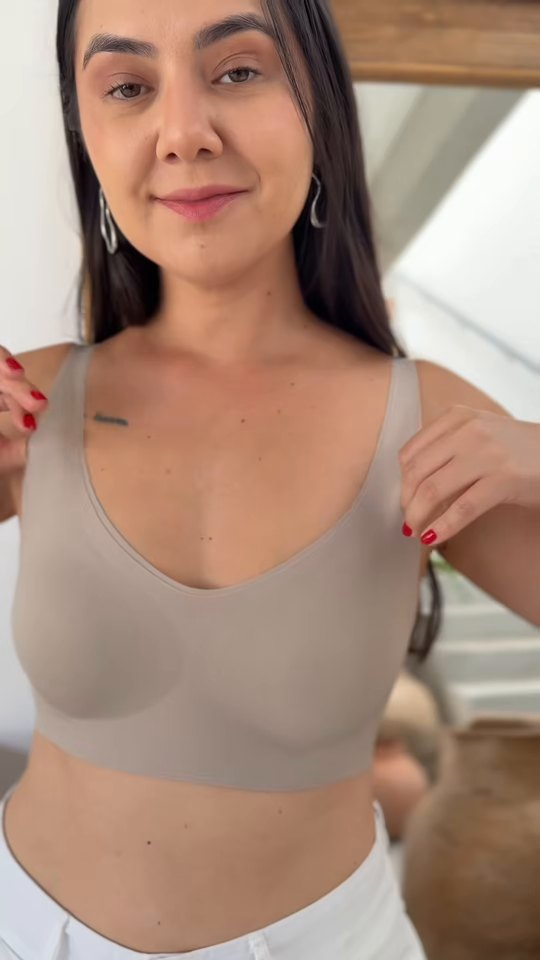
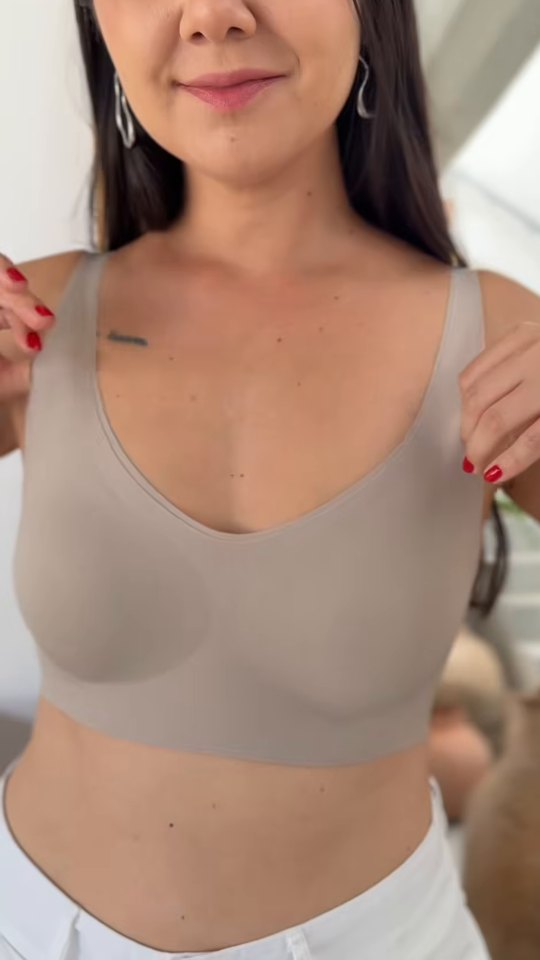
Capa com a foto maior, balões de feedback nos vídeos, Moda com 12 vídeos e setas de 5 em 5
- Foto da capa maior, terminando na borda direita, com continuação suave à esquerda

- Criadora de conteúdo sem UGC em cima do nome e +80 marcas em destaque, em bordô

- Balões com o feedback de cada marca em cima dos vídeos dela

- Feedbacks novos do Empório Macadâmia e da Pra Casa

- Moda com Primavera Aesthetic e Vestido Aesthetic, na ordem nova

- Setas dos nichos passam 5 vídeos de uma vez

- TikTok Shop no nicho de moda e sem os tópicos; serviço 2 só no Instagram

- Sai o bloco de resultados; fica +80 marcas atendidas antes das logos

- Capa nova do sutiã da Liz, mais próxima

diff --git a/index.html b/index.html
@@ -1613,7 +1613,7 @@
     }
     .capa-palco > .container { flex: none; }
     .capa-fundo { position: absolute; inset: 0; z-index: -2; }
-    .capa-fundo img { width: 100%; height: 100%; object-fit: cover; object-position: 78% 30%; }
+    .capa-fundo img { width: 100%; height: 100%; object-fit: cover; object-position: 100% 30%; }
     /* Bordô só do lado do texto; a foto continua viva à direita */
     .capa-palco::before {
       content: "";
@@ -1622,7 +1622,7 @@
       z-index: -1;
       background:
         linear-gradient(180deg, rgba(40, 10, 17, .55) 0%, rgba(40, 10, 17, 0) 24%),
-        linear-gradient(90deg, rgba(58, 14, 24, .94) 0%, rgba(70, 18, 30, .86) 30%, rgba(90, 24, 38, .5) 48%, rgba(90, 24, 38, 0) 62%);
+        linear-gradient(90deg, rgba(58, 14, 24, .94) 0%, rgba(70, 18, 30, .86) 28%, rgba(90, 24, 38, .45) 43%, rgba(90, 24, 38, 0) 54%);
     }
     .capa-palco .capa-grid { grid-template-columns: minmax(0, 1fr); }
     .capa-palco .capa-texto { max-width: 640px; }
@@ -1688,6 +1688,60 @@
     /* TikTok Shop: lista clara e carrossel de vídeos */
     .tiktok .tiktok-itens li { color: var(--tinta-suave); }
     .tiktok .btn-tiktok { justify-self: start; }
+    /* Rótulo das logos e título "+80 marcas atendidas" em destaque, bordô */
+    .faixa-rotulo {
+      font-family: "Fraunces", Georgia, serif;
+      font-size: clamp(1.35rem, 2.6vw, 1.9rem);
+      font-weight: 400;
+      letter-spacing: -.01em;
+      text-transform: none;
+      color: var(--azul);
+    }
+    .titulo-marcas { text-align: center; color: var(--azul); margin-bottom: 2rem; }
+    .titulo-marcas em { font-style: italic; }
+
+    /* Balões de feedback em cima do vídeo, como mensagens de WhatsApp */
+    .baloes {
+      position: absolute;
+      left: .55rem;
+      bottom: .6rem;
+      right: 3.4rem;
+      z-index: 2;
+      display: flex;
+      flex-direction: column;
+      align-items: flex-start;
+      gap: .3rem;
+      pointer-events: none;
+    }
+    .balao {
+      margin: 0;
+      max-width: 100%;
+      padding: .42rem .62rem;
+      border-radius: 11px 11px 11px 3px;
+      background: rgba(255, 253, 250, .96);
+      color: #1d1315;
+      font-size: .72rem;
+      font-weight: 500;
+      line-height: 1.3;
+      text-align: left;
+      box-shadow: 0 4px 14px -6px rgba(20, 17, 13, .45);
+    }
+    .balao:first-child::before {
+      content: "Feedback";
+      display: block;
+      margin-bottom: .12rem;
+      font-size: .58rem;
+      font-weight: 800;
+      letter-spacing: .1em;
+      text-transform: uppercase;
+      color: var(--azul);
+    }
+    .slide .baloes { bottom: .9rem; right: .9rem; }
+    .slide .balao { font-size: .78rem; }
+    @media (max-width: 700px) {
+      .balao { font-size: .66rem; padding: .35rem .5rem; }
+      .baloes { right: 2.9rem; }
+    }
   </style>
 </head>
 
@@ -1712,7 +1766,7 @@
         <li><a href="#destaques" data-i18n="menuDestaques">Destaques</a></li>
         <li><a href="#trabalhos" data-i18n="menuTrabalhos">Trabalhos</a></li>
         <li><a href="#servicos" data-i18n="menuServicos">Serviços</a></li>
-        <li><a href="#numeros" data-i18n="menuNumeros">Números</a></li>
+        <li><a href="#numeros" data-i18n="menuNumeros">Marcas</a></li>
         <li><a href="#contato" class="menu-cta" data-i18n="menuContato">Contato</a></li>
       </ul>
       <div class="nav-acoes">
@@ -1824,7 +1878,6 @@
             <p class="sobretitulo reveal" data-cfg="tiktokShop.sobretitulo"></p>
             <h2 class="titulo reveal" id="tiktok-titulo" data-cfg="tiktokShop.titulo"></h2>
             <p class="lead reveal" data-cfg="tiktokShop.descricao"></p>
-            <ul class="tiktok-itens reveal" id="tiktok-itens"></ul>
             <a class="btn btn-primario btn-tiktok reveal" id="tiktok-link" target="_blank" rel="noopener noreferrer"></a>
           </div>
           <div class="carrossel reveal" id="tiktok-carrossel" role="region" aria-roledescription="carrossel" aria-labelledby="tiktok-titulo">
@@ -1849,15 +1902,10 @@
     </section>
 
     <!-- ============ 6. NÚMEROS E DEPOIMENTOS ============ -->
-    <section class="numeros" id="numeros" aria-labelledby="numeros-titulo">
+    <section class="numeros" id="numeros" aria-labelledby="logos-titulo">
       <div class="container">
-        <div class="secao-topo">
-          <p class="sobretitulo reveal" data-cfg="numeros.sobretitulo"></p>
-          <h2 class="titulo reveal" id="numeros-titulo" data-cfg="numeros.titulo"></h2>
-          <p class="lead reveal" data-cfg="numeros.descricao"></p>
-        </div>
-        <ul class="contadores" id="contadores"></ul>
-        <h3 class="subtitulo reveal" id="logos-titulo" data-cfg="marcas.tituloLogos"></h3>
+        <ul class="contadores" id="contadores" hidden></ul>
+        <h2 class="titulo titulo-marcas reveal" id="logos-titulo" data-cfg="marcas.tituloLogos"></h2>
       </div>
 
       <div class="container logos reveal" role="region" aria-labelledby="logos-titulo">
@@ -1984,11 +2032,11 @@
 
       // EDITE AQUI: textos da capa (primeira tela do site).
       capa: {
-        sobretitulo: "Criadora de conteúdo UGC",
+        sobretitulo: "Criadora de conteúdo",
         frase: "Crio vídeos autênticos, com cara de gente de verdade, que fazem a sua marca parar o scroll, gerar confiança e vender mais.",
         selo: "Agenda aberta para novas parcerias",
         // A foto ocupa a capa inteira: "larga" no computador, "vertical" no celular.
-        imagem: { larga: "fotos/capa-larga.jpg", vertical: "fotos/capa-vertical.jpg", alt: `${NOME} sorrindo e abaixando os óculos de sol, de blusa branca de gola alta` },
+        imagem: { larga: "fotos/capa-larga-2.jpg", vertical: "fotos/capa-vertical.jpg", alt: `${NOME} sorrindo e abaixando os óculos de sol, de blusa branca de gola alta` },
         // As três etiquetas abaixo dos botões.
         papeis: ["Influenciadora", "UGC Creator", "TikTok Shop Creator"],
         rotuloMarcas: "+80 marcas que confiam"
@@ -1997,7 +2045,7 @@
       // EDITE AQUI: marcas.
       marcas: {
         // A faixa fina da capa mostra as logos da lista abaixo.
-        tituloLogos: "Marcas que já confiaram no <em>meu trabalho</em>",
+        tituloLogos: "<em>+80</em> marcas atendidas",
         // Logos (ficam na pasta "logos"). Para incluir uma nova, salve a
         // imagem quadrada na pasta e adicione uma linha { nome, logo }.
         logos: [
@@ -2164,6 +2212,24 @@
       // EDITE AQUI: vídeos por nicho. Cada nicho vira um botão de filtro.
       // Para incluir um vídeo, copie uma linha e troque marca, título e link.
       trabalhos: {
+        // Balões de feedback em cima do vídeo (código do vídeo no YouTube: mensagens).
+        baloes: {
+          "RT8yY885xuE": ["Atendeu todas as minhas necessidades e o vídeo ficou perfeito!"],
+          "JU_N27VI-xw": ["Capricho espetacular, cenário lindo, zero defeitos. Ficamos encantadas! 💖"],
+          "38SG8qvT37s": ["Conteúdo maravilhoso e impecável!"],
+          "Y98Zz5V-GP4": ["Tamires, isso está perfeitoooo! Arrasou muito, impecável", "Ficaram perfeitos"],
+          "wZUczVHydiU": ["A Tamires foi maravilhosa!!"],
+          "AA9ZTdH-ccs": ["Caraca, Tamires", "Tô emocionadaaaa", "Elevou nossos vídeos a outro nível"],
+          "Svi-VP0Fsps": ["Conteúdo super legal e, além de tudo, super atenciosa."],
+          "1BFxYgk0Zww": ["Conteúdo dinâmico e com ótima qualidade, nota 10!"],
+          "KWjGJhEC7pw": ["Tamires foi ótima, amamos o conteúdo! Nota 10"],
+          "EiOsKUBIfUg": ["Tamires, acabei de ver, ficou beeeeeem legal, sério mesmo", "Parabéns"],
+          "OrXiRGWX5Nw": ["Super dedicada e entregou o trabalho super rápido!"],
+          "hfaKMRJzIXU": ["Cumpriu todos os prazos e entregou com qualidade. Recomendo muito!"],
+          "lzwVtZcSWjg": ["Muito obrigado pela parceria e pelo ótimo conteúdo! 💚"],
+          "vDy_HsxSQ2Y": ["Entregou no prazo e trouxe naturalidade ao conteúdo."],
+          "NKkCdkueXRw": ["Tamires sempre entrega um ótimo conteúdo!"]
+        },
         sobretitulo: "Trabalhos por nicho",
         titulo: "Um olhar para cada <em>nicho</em>",
         // {total} e {nichos} são preenchidos automaticamente.
@@ -2172,13 +2238,15 @@
         nichos: [
           { nome: "Moda", videos: [
             { marca: "Carol Areco", titulo: "Óculos aesthetic", link: "https://youtube.com/shorts/U01Dk17gAHk" },
-            { marca: "Liz", titulo: "Explicativo Microfibra", link: "https://youtube.com/shorts/5sh6Czculo8" },
             { marca: "Sabrina Fernandes", titulo: "Gêmeas Inspiração", link: "https://youtube.com/shorts/vvXbP8f903s" },
             { marca: "Liz", titulo: "Demonstrativo bermuda e calça", link: "https://youtube.com/shorts/g6Roj4frQIU" },
+            { marca: "Viasete", titulo: "Primavera Aesthetic", link: "https://youtube.com/shorts/00457RqIeEM" },
             { marca: "Sabrina Fernandes", titulo: "Um vestido para cada dia da semana", link: "https://youtube.com/shorts/EQ4VD7r9kNw" },
+            { marca: "Liz", titulo: "Explicativo Microfibra", link: "https://youtube.com/shorts/5sh6Czculo8" },
             { marca: "Viasete", titulo: "GRWM aesthetic", link: "https://youtube.com/shorts/BZH4J_bgKfA" },
             { marca: "Sabrina Fernandes", titulo: "O que comprei x o que recebi", link: "https://youtube.com/shorts/lCzgezoJ6fM" },
             { marca: "Liz", titulo: "Emocional fim de ano", link: "https://youtube.com/shorts/pDF1DGc7U9k" },
+            { marca: "Viasete", titulo: "Vestido Aesthetic", link: "https://youtube.com/shorts/Vxx8-USdAvk" },
             { marca: "Moldavita", titulo: "Gêmeas Inspiração", link: "https://youtube.com/shorts/JU_N27VI-xw" },
             { marca: "Liz", titulo: "Explicativo Microfibra", link: "https://youtube.com/shorts/tGV0sPCNVrg" }
           ]},
@@ -2309,7 +2377,7 @@
       tiktokShop: {
         sobretitulo: "TikTok Shop",
         titulo: "Vídeos que levam direto ao <em>carrinho</em>",
-        descricao: "Também sou criadora do TikTok Shop: faço vídeos de produto com link de compra no próprio vídeo, unindo a naturalidade do UGC à praticidade de comprar sem sair do app.",
+        descricao: "Também sou criadora do TikTok Shop no nicho de moda: faço vídeos de produto com link de compra no próprio vídeo, unindo a naturalidade do UGC à praticidade de comprar sem sair do app.",
         itens: [
           "Vídeos com o produto em uso e link de compra direto no vídeo",
           "Gancho nos primeiros segundos, demonstração e chamada para a compra",
@@ -2333,7 +2401,7 @@
         descricao: "Do roteiro ao arquivo final, cuido de cada etapa para você receber conteúdo pronto para usar e escalar.",
         itens: [
           { titulo: "Vídeo UGC",            descricao: "Vídeos verticais com roteiro, gancho forte e linguagem natural, entregues para a marca publicar no próprio perfil ou usar em anúncios.", detalhe: "Para o perfil da marca" },
-          { titulo: "Publicação no meu perfil", descricao: "Conteúdo publicado no meu perfil, alcançando uma audiência que confia nas minhas indicações.", detalhe: "Instagram e TikTok" },
+          { titulo: "Publicação no meu perfil", descricao: "Conteúdo publicado no meu perfil, alcançando uma audiência que confia nas minhas indicações.", detalhe: "Instagram" },
           { titulo: "Corte para anúncio",   descricao: "Variações do mesmo vídeo com ganchos e chamadas diferentes, para você testar e escalar o que mais vende.", detalhe: "Ideal para tráfego pago" },
           { titulo: "Pacote mensal",        descricao: "Uma rotina de conteúdo para sua marca nunca ficar sem criativo novo, com prioridade na agenda.", detalhe: "Perfeito para quem anuncia todo mês" }
         ]
@@ -2365,7 +2433,9 @@
           { texto: "Tamires sempre entrega um ótimo conteúdo! Adoramos trabalhar com ela e dessa vez não foi diferente. Parabéns pelos conteúdos, Ta!", nome: "Chá Branco", empresa: "Coala", logo: "logos/coala.png" },
           { texto: "Amei trabalhar com você! O conteúdo ficou muito natural, do jeitinho que a gente acredita em UGC. Sua agilidade foi surreal (nota 100) e você foi extremamente prestativa o tempo todo. Com certeza quero repetir essa parceria.", nome: "Campanha UGC", empresa: "Espaço Laser", logo: "logos/espaco-laser.png" },
           { texto: "Trabalhar com a Tamires foi ótimo. Ela entregou no prazo, seguiu o briefing com atenção e trouxe naturalidade ao conteúdo. Uma parceria eficiente e muito bem conduzida.", nome: "Rap10 Oficial | UGC Creator", empresa: "Rap10", logo: "logos/rap10.png" },
+          { texto: "Caraca, Tamires! Tô emocionadaaaa. Elevou nossos vídeos a outro nível, hahahaha", nome: "Mensagem no WhatsApp", empresa: "Empório Macadâmia", logo: "logos/emporio-macadamia.png" },
           { texto: "Sem palavras pro conteúdo que a Tamires entregou, pontualíssima, de um capricho espetacular, cenário lindo, zero defeitos. Ficamos encantadas! 💖", nome: "Macaquinho Jolly", empresa: "Moldavita Boutique", logo: "logos/moldavita.png" },
+          { texto: "Tamires, acabei de ver, ficou beeeeeem legal, sério mesmo. Parabéns!", nome: "Antes e depois: resina para madeira", empresa: "Pra Casa", logo: "logos/pra-casa.png" },
           { texto: "Mais uma vez, fica aqui o nosso agradecimento, muito obrigado pela parceria e pelo ótimo conteúdo! 💚", nome: "Campanha Delivery", empresa: "Poli-Pet", logo: "logos/polipet.png" },
           { texto: "Roteiro e gravação que acertaram em cheio no que estávamos precisando. Um vídeo bem estruturado, pensado nos detalhes. Nós amamos!", nome: "Campanha de awareness", empresa: "Pelmex+", logo: "logos/pelmex.png" },
           { texto: "Criadora incrível, muito criativa e com senso de estética impecável, fotos e vídeos acima das expectativas!", nome: "Campanha de lançamento UGC", empresa: "Bem Me Fiz", logo: "logos/bem-me-fiz.png" },
@@ -2428,14 +2498,14 @@
         mensagemWhatsApp: "Hi Tamires! I'd like to book a slot for Black Friday content."
       },
       capa: {
-        sobretitulo: "UGC Content Creator",
+        sobretitulo: "Content Creator",
         frase: "I create authentic videos that feel like real people talking, the kind that make your brand stop the scroll, build trust and sell more.",
         selo: "Booking new partnerships",
         imagem: { alt: "Tamires Nishimura smiling and lowering her sunglasses, wearing a white turtleneck" },
         papeis: ["Influencer", "UGC Creator", "TikTok Shop Creator"],
         rotuloMarcas: "Trusted by +80 brands"
       },
-      marcas: { tituloLogos: "Brands that have <em>trusted my work</em>" },
+      marcas: { tituloLogos: "<em>+80</em> brands served" },
       sobre: {
         sobretitulo: "About me",
         titulo: "Nice to meet you, I'm <em>Tamires</em>",
@@ -2470,11 +2540,28 @@
         ]
       },
       trabalhos: {
+        baloes: {
+          "RT8yY885xuE": ["She met all my needs and the video turned out perfect!"],
+          "JU_N27VI-xw": ["Spectacular care, a beautiful set, zero flaws. We were delighted! 💖"],
+          "38SG8qvT37s": ["Wonderful, flawless content!"],
+          "Y98Zz5V-GP4": ["Tamires, this is perfeeeect! You nailed it, flawless", "They turned out perfect"],
+          "wZUczVHydiU": ["Tamires was wonderful!!"],
+          "AA9ZTdH-ccs": ["Wow, Tamires", "I'm so emotional", "You took our videos to another level"],
+          "Svi-VP0Fsps": ["Really cool content, and on top of that, super attentive."],
+          "1BFxYgk0Zww": ["Dynamic, high-quality content, a perfect 10!"],
+          "KWjGJhEC7pw": ["Tamires was great, we loved the content! A perfect 10"],
+          "EiOsKUBIfUg": ["Tamires, I just watched it, it turned out sooo good, seriously", "Congrats"],
+          "OrXiRGWX5Nw": ["Super dedicated and delivered the work super fast!"],
+          "hfaKMRJzIXU": ["She met every deadline and delivered quality work. Highly recommend!"],
+          "lzwVtZcSWjg": ["Thank you so much for the partnership and the great content! 💚"],
+          "vDy_HsxSQ2Y": ["Delivered on time and brought a natural feel to the content."],
+          "NKkCdkueXRw": ["Tamires always delivers great content!"]
+        },
         sobretitulo: "Work by niche",
         titulo: "A fresh angle for every <em>niche</em>",
         descricao: "Browse them all below or tap a niche to filter.",
         nichos: [
-          { nome: "Fashion", videos: [{ titulo: "Aesthetic sunglasses" }, { titulo: "Microfiber explainer" }, { titulo: "Twin inspiration" }, { titulo: "Shorts and pants demo" }, { titulo: "A dress for every day of the week" }, { titulo: "Aesthetic GRWM" }, { titulo: "What I ordered vs. what I got" }, { titulo: "Emotional year-end" }, { titulo: "Twin inspiration" }, { titulo: "Microfiber explainer" }] },
+          { nome: "Fashion", videos: [{ titulo: "Aesthetic sunglasses" }, { titulo: "Twin inspiration" }, { titulo: "Shorts and pants demo" }, { titulo: "Aesthetic spring" }, { titulo: "A dress for every day of the week" }, { titulo: "Microfiber explainer" }, { titulo: "Aesthetic GRWM" }, { titulo: "What I ordered vs. what I got" }, { titulo: "Emotional year-end" }, { titulo: "Aesthetic dress" }, { titulo: "Twin inspiration" }, { titulo: "Microfiber explainer" }] },
           { nome: "Try-ons", videos: [{ titulo: "Try-on opening" }, { titulo: "Lança Perfume jumpsuit" }, { titulo: "Party dress" }, { titulo: "Tamires sunglasses" }, { titulo: "Colcci corset and polka dot skirt" }, { titulo: "Heloíse skirt for ads" }, { titulo: "Farm dress" }, { titulo: "Lez a Lez jumpsuit" }, { titulo: "Party dress" }, { titulo: "Colcci look" }] },
           { nome: "Beauty", videos: [{ titulo: "Duos" }, { titulo: "Product launch" }, { titulo: "Lavieen laser experience" }, { titulo: "5 reasons" }, { titulo: "Review" }, { titulo: "Brand presentation" }, { titulo: "Lipo Redux experience" }] },
           { nome: "Health", videos: [{ titulo: "Weight loss" }, { titulo: "Loyalty program" }, { titulo: "Review" }, { marca: "Gift", titulo: "Chocolate gift" }, { titulo: "Lipedema" }, { titulo: "Protein drink" }, { titulo: "Review" }] },
@@ -2499,7 +2586,7 @@
       tiktokShop: {
         sobretitulo: "TikTok Shop",
         titulo: "Videos that lead straight to the <em>cart</em>",
-        descricao: "I'm also a TikTok Shop creator: I make product videos with a buy link right in the video, combining the natural feel of UGC with the ease of buying without leaving the app.",
+        descricao: "I'm also a TikTok Shop creator in the fashion niche: I make product videos with a buy link right in the video, combining the natural feel of UGC with the ease of buying without leaving the app.",
         itens: [
           "Product-in-use videos with a buy link right in the video",
           "A hook in the first seconds, a demo and a call to buy",
@@ -2514,7 +2601,7 @@
         descricao: "From script to final file, I handle every step so you get content that's ready to use and scale.",
         itens: [
           { titulo: "UGC video", descricao: "Vertical videos with a script, a strong hook and natural language, delivered for the brand to post on its own profile or use in ads.", detalhe: "For the brand's profile" },
-          { titulo: "Posting on my profile", descricao: "Content posted on my profile, reaching an audience that trusts my recommendations.", detalhe: "Instagram and TikTok" },
+          { titulo: "Posting on my profile", descricao: "Content posted on my profile, reaching an audience that trusts my recommendations.", detalhe: "Instagram" },
           { titulo: "Ad cuts", descricao: "Variations of the same video with different hooks and calls to action, so you can test and scale what sells best.", detalhe: "Ideal for paid traffic" },
           { titulo: "Monthly package", descricao: "A content routine so your brand never runs out of fresh creatives, with priority booking.", detalhe: "For brands that advertise every month" }
         ]
@@ -2535,7 +2622,9 @@
           { texto: "Tamires always delivers great content! We love working with her, and this time was no different. Congrats on the content, Ta!", nome: "White Tea" },
           { texto: "I loved working with you! The content felt so natural, exactly the way we believe UGC should be. Your speed was unreal (a perfect score) and you were extremely helpful the whole time. I definitely want to repeat this partnership.", nome: "UGC campaign" },
           { texto: "Working with Tamires was great. She delivered on time, followed the brief carefully and brought a natural feel to the content. An efficient, very well-run partnership." },
+          { texto: "Wow, Tamires! I'm so emotional. You took our videos to another level, hahaha", nome: "WhatsApp message" },
           { texto: "No words for the content Tamires delivered: super punctual, beautifully polished, a lovely setting, zero flaws. We were enchanted! 💖", nome: "Jolly romper" },
+          { texto: "Tamires, I just watched it, it turned out sooo good, seriously. Congrats!", nome: "Before and after: wood resin" },
           { texto: "Once again, our thanks: thank you so much for the partnership and the great content! 💚", nome: "Delivery campaign" },
           { texto: "A script and shoot that hit exactly what we needed. A well-structured video, thought out down to the details. We loved it!", nome: "Awareness campaign" },
           { texto: "An amazing, very creative creator with an impeccable sense of aesthetics; photos and videos beyond expectations!", nome: "UGC launch campaign" },
@@ -2574,7 +2663,7 @@
     const TEXTOS = {
       pt: {
         locale: "pt-BR", pular: "Pular para o conteúdo", navPrincipal: "Navegação principal", idioma: "Idioma",
-        menuSobre: "Sobre", menuDestaques: "Destaques", menuTrabalhos: "Trabalhos", menuServicos: "Serviços", menuNumeros: "Números", menuContato: "Contato",
+        feedbackMarca: "Feedback da marca", menuSobre: "Sobre", menuDestaques: "Destaques", menuTrabalhos: "Trabalhos", menuServicos: "Serviços", menuNumeros: "Marcas", menuContato: "Contato",
         abrirMenu: "Abrir menu", fecharMenu: "Fechar menu",
         falarComigo: "Falar comigo", verTrabalhos: "Ver os trabalhos", filtrar: "Filtrar trabalhos por nicho",
         anterior: "Vídeo anterior", proximo: "Próximo vídeo", player: "Vídeo", fecharVideo: "Fechar vídeo",
@@ -2591,7 +2680,7 @@
       },
       en: {
         locale: "en-US", pular: "Skip to content", navPrincipal: "Main navigation", idioma: "Language",
-        menuSobre: "About", menuDestaques: "Highlights", menuTrabalhos: "Work", menuServicos: "Services", menuNumeros: "Numbers", menuContato: "Contact",
+        feedbackMarca: "Brand feedback", menuSobre: "About", menuDestaques: "Highlights", menuTrabalhos: "Work", menuServicos: "Services", menuNumeros: "Brands", menuContato: "Contact",
         abrirMenu: "Open menu", fecharMenu: "Close menu",
         falarComigo: "Let's talk", verTrabalhos: "See my work", filtrar: "Filter work by niche",
         anterior: "Previous video", proximo: "Next video", player: "Video", fecharVideo: "Close video",
@@ -2657,7 +2746,7 @@
     const $ = (seletor) => document.querySelector(seletor);
     // Muda a cada atualização das logos, para o navegador não mostrar versões antigas guardadas.
     const VERSAO_LOGOS = "20261028-1";
-    const VERSAO_CAPAS = "20261028-2";
+    const VERSAO_CAPAS = "20261028-3";
     const versao = (src) => (src ? `${src}?v=${VERSAO_LOGOS}` : src);
     const reduzirMovimento = window.matchMedia("(prefers-reduced-motion: reduce)").matches;
 
@@ -2687,6 +2776,12 @@
     function capaDoVideo(id, alt, capaPropria) {
       const src = capaPropria || `capas/${id}.jpg?v=${VERSAO_CAPAS}`;
       return `<img class="midia" src="${esc(src)}" alt="${esc(alt)}" loading="lazy" decoding="async" data-id="${id}" onerror="trocarCapa(this)">`;
+    }
+    // Balões de feedback da marca, como mensagens, em cima da capa do vídeo
+    function baloesDoVideo(id) {
+      const msgs = (CONFIG.trabalhos.baloes || {})[id];
+      if (!msgs) return "";
+      return `<div class="baloes" aria-label="${esc(T.feedbackMarca)}">${msgs.map((m) => `<p class="balao">${esc(m)}</p>`).join("")}</div>`;
     }
     window.trocarCapa = function (img) {
       const etapa = Number(img.dataset.etapa || 0);
@@ -2801,6 +2896,7 @@
         <h3 class="slide-marca">${esc(d.titulo)}</h3>
         <a class="card-capa" href="${esc(d.link)}" target="_blank" rel="noopener noreferrer" data-video="${id}" data-titulo="${esc(d.titulo)}">
           ${capaDoVideo(id, `${T.capaVideo} ${d.titulo}`, d.capa)}
+          ${baloesDoVideo(id)}
           <span class="card-selo${d.ouro ? " ouro" : ""}">${esc(d.selo)}</span>
           <span class="play">${icones.play}</span>
         </a>
@@ -2840,6 +2936,7 @@
         <a class="trabalho${animar ? " surgir" : ""}" href="${esc(v.link)}" target="_blank" rel="noopener noreferrer" data-video="${v.id}" data-titulo="${esc(v.marca + ": " + v.titulo)}">
           <div class="moldura">
             ${capaDoVideo(v.id, `${T.capaVideo} ${v.marca}: ${v.titulo}`)}
+            ${baloesDoVideo(v.id)}
             <span class="mini-play">${icones.play}</span>
           </div>
           <div class="trabalho-legenda">
@@ -2935,7 +3032,9 @@
       const b = e.target.closest(".nicho-seta");
       if (!b) return;
       const trilho = b.closest(".nicho-linha").querySelector(".nicho-trilho");
-      trilho.scrollBy({ left: Number(b.dataset.lado) * trilho.clientWidth * 0.8, behavior: reduzirMovimento ? "auto" : "smooth" });
+      // Uma página inteira por clique: soma o espaço entre os vídeos para cair certinho no próximo
+      const vao = parseFloat(getComputedStyle(trilho).columnGap) || 0;
+      trilho.scrollBy({ left: Number(b.dataset.lado) * (trilho.clientWidth + vao), behavior: reduzirMovimento ? "auto" : "smooth" });
     });
     window.addEventListener("resize", () => galeria.querySelectorAll(".nicho-trilho").forEach(atualizarSetas));
 
@@ -2954,7 +3053,6 @@
         <div class="video-longo-legenda"><strong>${esc(v.titulo)}</strong><span>${esc(v.marca)}</span></div>
       </a>`;
     }).join("");
-    $("#tiktok-itens").innerHTML = CONFIG.tiktokShop.itens.map((t) => `<li>${icones.check}<span>${esc(t)}</span></li>`).join("");
     const linkTiktok = $("#tiktok-link");
     linkTiktok.href = CONFIG.tiktokShop.link;
     linkTiktok.innerHTML = `${esc(CONFIG.tiktokShop.botao)} <svg viewBox="0 0 24 24" fill="none" stroke="currentColor" stroke-width="2" aria-hidden="true"><path d="M5 12h14M13 6l6 6-6 6"/></svg><span class="visualmente-oculto"> ${T.novaAba}</span>`;
